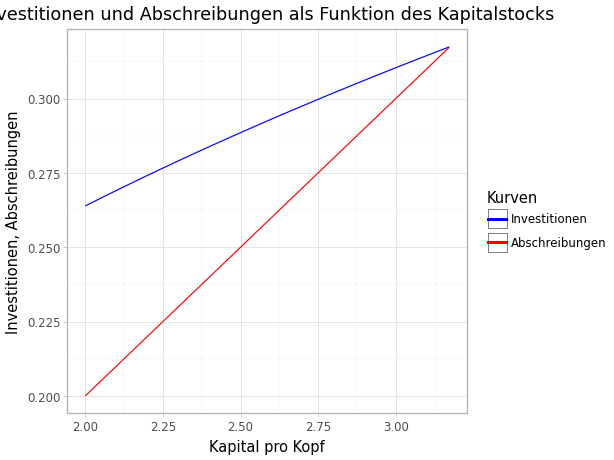
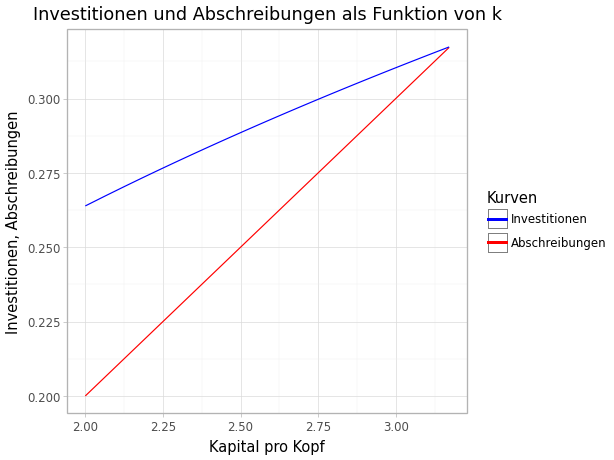
Neoklassisch korrigiert

Changed region(s): [[0.0, 0.0, 0.8974, 0.0609]]

diff --git a/docs/Neoklassik.html b/docs/Neoklassik.html
@@ -342,9 +342,13 @@ Kernbotschaften
 </section>
 <section id="langfristiges-gleichgewicht" class="level2" data-number="4.4">
 <h2 data-number="4.4" class="anchored" data-anchor-id="langfristiges-gleichgewicht"><span class="header-section-number">4.4</span> Langfristiges Gleichgewicht</h2>
-<p>Die Produktion <span class="math inline">\(Y\)</span> wächst, wenn<br>
-- <span class="math inline">\(A\)</span> wächst (Technischer Fortschritt) - <span class="math inline">\(L\)</span> wächst (Bevölkerungswachstum) - <span class="math inline">\(K\)</span> wächst (Kapitalakkumulation)</p>
-<p>Fokus hier: <span class="math inline">\(K\)</span></p>
+<p>Die Produktion <span class="math inline">\(Y\)</span> wächst, wenn</p>
+<ul>
+<li><p><span class="math inline">\(A\)</span> wächst (Technischer Fortschritt)</p></li>
+<li><p><span class="math inline">\(L\)</span> wächst (Bevölkerungswachstum)</p></li>
+<li><p><span class="math inline">\(K\)</span> wächst (Kapitalakkumulation)</p></li>
+</ul>
+<p>Fokus hier: Wachstum von <span class="math inline">\(K\)</span></p>
 <div class="callout callout-style-default callout-note no-icon callout-titled">
 <div class="callout-header d-flex align-content-center">
 <div class="callout-icon-container">
@@ -370,7 +374,7 @@ Pfad zum Gleichgewicht
 </section>
 <section id="entwicklung-des-kapitalstocks" class="level2" data-number="4.5">
 <h2 data-number="4.5" class="anchored" data-anchor-id="entwicklung-des-kapitalstocks"><span class="header-section-number">4.5</span> Entwicklung des Kapitalstocks</h2>
-<div id="f9dea9b8" class="cell" data-message="false" data-execution_count="1">
+<div id="4c034695" class="cell" data-message="false" data-execution_count="1">
 <details class="code-fold">
 <summary>Code</summary>
 <div class="sourceCode cell-code" id="cb1"><pre class="sourceCode python code-with-copy"><code class="sourceCode python"><span id="cb1-1"><a href="#cb1-1" aria-hidden="true" tabindex="-1"></a><span class="im">import</span> plotnine <span class="im">as</span> gg</span>
@@ -427,7 +431,7 @@ Pfad zum Gleichgewicht
 <span id="cb1-52"><a href="#cb1-52" aria-hidden="true" tabindex="-1"></a>                  <span class="st">'y'</span>: y_t})</span></code><button title="Copy to Clipboard" class="code-copy-button"><i class="bi"></i></button></pre></div>
 </details>
 </div>
-<div id="bfc6fcbb" class="cell" data-message="false" data-execution_count="2">
+<div id="b901046f" class="cell" data-message="false" data-execution_count="2">
 <details class="code-fold">
 <summary>Code</summary>
 <div class="sourceCode cell-code" id="cb2"><pre class="sourceCode python code-with-copy"><code class="sourceCode python"><span id="cb2-1"><a href="#cb2-1" aria-hidden="true" tabindex="-1"></a><span class="co">#Grafiken</span></span>
@@ -447,7 +451,7 @@ Pfad zum Gleichgewicht
 </div>
 </div>
 </div>
-<div id="be4f735a" class="cell" data-message="false" data-execution_count="3">
+<div id="f9616acd" class="cell" data-message="false" data-execution_count="3">
 <details class="code-fold">
 <summary>Code</summary>
 <div class="sourceCode cell-code" id="cb3"><pre class="sourceCode python code-with-copy"><code class="sourceCode python"><span id="cb3-1"><a href="#cb3-1" aria-hidden="true" tabindex="-1"></a>(</span>
@@ -475,7 +479,7 @@ Pfad zum Gleichgewicht
 </div>
 </div>
 </div>
-<div id="a3d246f2" class="cell" data-message="false" data-execution_count="4">
+<div id="1718e725" class="cell" data-message="false" data-execution_count="4">
 <details class="code-fold">
 <summary>Code</summary>
 <div class="sourceCode cell-code" id="cb4"><pre class="sourceCode python code-with-copy"><code class="sourceCode python"><span id="cb4-1"><a href="#cb4-1" aria-hidden="true" tabindex="-1"></a>(</span>
@@ -490,7 +494,7 @@ Pfad zum Gleichgewicht
 <span id="cb4-10"><a href="#cb4-10" aria-hidden="true" tabindex="-1"></a>    <span class="op">+</span> gg.labs(</span>
 <span id="cb4-11"><a href="#cb4-11" aria-hidden="true" tabindex="-1"></a>        x<span class="op">=</span><span class="st">'Kapital pro Kopf'</span>, </span>
 <span id="cb4-12"><a href="#cb4-12" aria-hidden="true" tabindex="-1"></a>        y<span class="op">=</span><span class="st">'Investitionen, Abschreibungen'</span>,</span>
-<span id="cb4-13"><a href="#cb4-13" aria-hidden="true" tabindex="-1"></a>        title<span class="op">=</span><span class="st">"Investitionen und Abschreibungen als Funktion des Kapitalstocks"</span></span>
+<span id="cb4-13"><a href="#cb4-13" aria-hidden="true" tabindex="-1"></a>        title<span class="op">=</span><span class="st">"Investitionen und Abschreibungen als Funktion von k"</span></span>
 <span id="cb4-14"><a href="#cb4-14" aria-hidden="true" tabindex="-1"></a>    )</span>
 <span id="cb4-15"><a href="#cb4-15" aria-hidden="true" tabindex="-1"></a>    <span class="op">+</span> gg.theme_light()</span>
 <span id="cb4-16"><a href="#cb4-16" aria-hidden="true" tabindex="-1"></a>    <span class="op">+</span> gg.theme(</span>
@@ -510,7 +514,7 @@ Pfad zum Gleichgewicht
 </section>
 <section id="entwicklung-des-einkommens" class="level2" data-number="4.6">
 <h2 data-number="4.6" class="anchored" data-anchor-id="entwicklung-des-einkommens"><span class="header-section-number">4.6</span> Entwicklung des Einkommens</h2>
-<div id="d53a6a35" class="cell" data-message="false" data-execution_count="5">
+<div id="d13825d3" class="cell" data-message="false" data-execution_count="5">
 <details class="code-fold">
 <summary>Code</summary>
 <div class="sourceCode cell-code" id="cb5"><pre class="sourceCode python code-with-copy"><code class="sourceCode python"><span id="cb5-1"><a href="#cb5-1" aria-hidden="true" tabindex="-1"></a>(gg.ggplot(df, gg.aes(<span class="st">'t'</span>, <span class="st">'y'</span>)) <span class="op">+</span> gg.geom_line() <span class="op">+</span></span>
@@ -537,7 +541,7 @@ Pfad zum Gleichgewicht
 <p><span class="math inline">\(c=(1-s)y=(1-s){\left(\frac{s}{\delta}\right)}^{\frac{\alpha }{1-\alpha }}\)</span></p>
 <p>Das sieht so aus, als könne es eine innere Lösung geben.</p>
 <p>Finden wir ein Maximum?</p>
-<div id="c94a6a0d" class="cell" data-message="false" data-execution_count="6">
+<div id="d974fcfc" class="cell" data-message="false" data-execution_count="6">
 <details class="code-fold">
 <summary>Code</summary>
 <div class="sourceCode cell-code" id="cb6"><pre class="sourceCode python code-with-copy"><code class="sourceCode python"><span id="cb6-1"><a href="#cb6-1" aria-hidden="true" tabindex="-1"></a><span class="co"># Goldene Regel</span></span>
@@ -569,7 +573,7 @@ Pfad zum Gleichgewicht
 <span id="cb6-27"><a href="#cb6-27" aria-hidden="true" tabindex="-1"></a><span class="co">#print(df)</span></span></code><button title="Copy to Clipboard" class="code-copy-button"><i class="bi"></i></button></pre></div>
 </details>
 </div>
-<div id="8fd32366" class="cell" data-message="false" data-execution_count="7">
+<div id="669f8041" class="cell" data-message="false" data-execution_count="7">
 <details class="code-fold">
 <summary>Code</summary>
 <div class="sourceCode cell-code" id="cb7"><pre class="sourceCode python code-with-copy"><code class="sourceCode python"><span id="cb7-1"><a href="#cb7-1" aria-hidden="true" tabindex="-1"></a>(gg.ggplot(df, gg.aes(<span class="st">'Sparquote'</span>, <span class="st">'Konsum'</span>)) <span class="op">+</span> gg.geom_line() <span class="op">+</span></span>
@@ -586,7 +590,7 @@ Pfad zum Gleichgewicht
 </div>
 </div>
 </div>
-<div id="68003e32" class="cell" data-message="false" data-execution_count="8">
+<div id="df8363ce" class="cell" data-message="false" data-execution_count="8">
 <details class="code-fold">
 <summary>Code</summary>
 <div class="sourceCode cell-code" id="cb8"><pre class="sourceCode python code-with-copy"><code class="sourceCode python"><span id="cb8-1"><a href="#cb8-1" aria-hidden="true" tabindex="-1"></a>(</span>
@@ -616,7 +620,7 @@ Pfad zum Gleichgewicht
 </div>
 </div>
 <p>Wie bestimmt sich denn nun die Sparquote für maximalen Konsum analytisch?</p>
-<div id="06db3483" class="cell" data-message="false" data-execution_count="9">
+<div id="3ab07495" class="cell" data-message="false" data-execution_count="9">
 <details class="code-fold">
 <summary>Code</summary>
 <div class="sourceCode cell-code" id="cb9"><pre class="sourceCode python code-with-copy"><code class="sourceCode python"><span id="cb9-1"><a href="#cb9-1" aria-hidden="true" tabindex="-1"></a><span class="im">from</span> sympy <span class="im">import</span> Symbol, solve, Eq, diff, simplify, print_latex</span>
